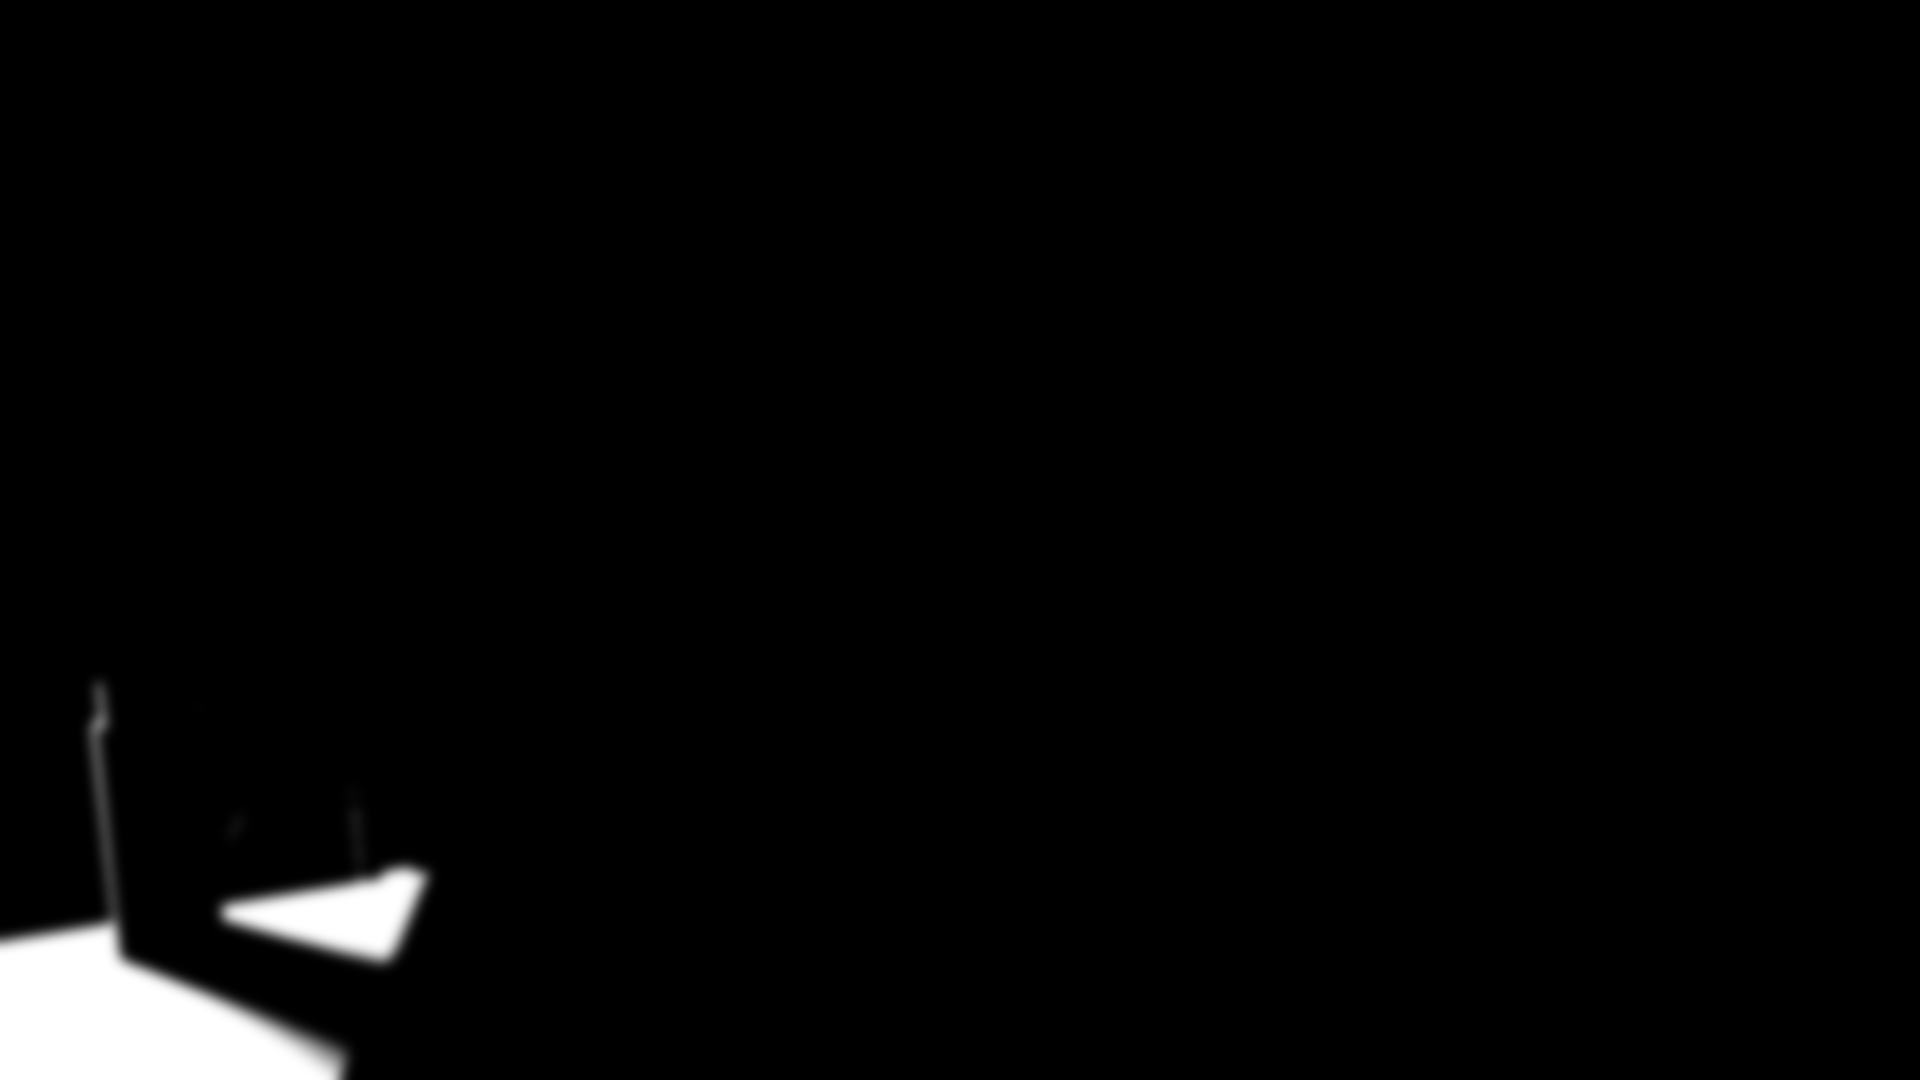
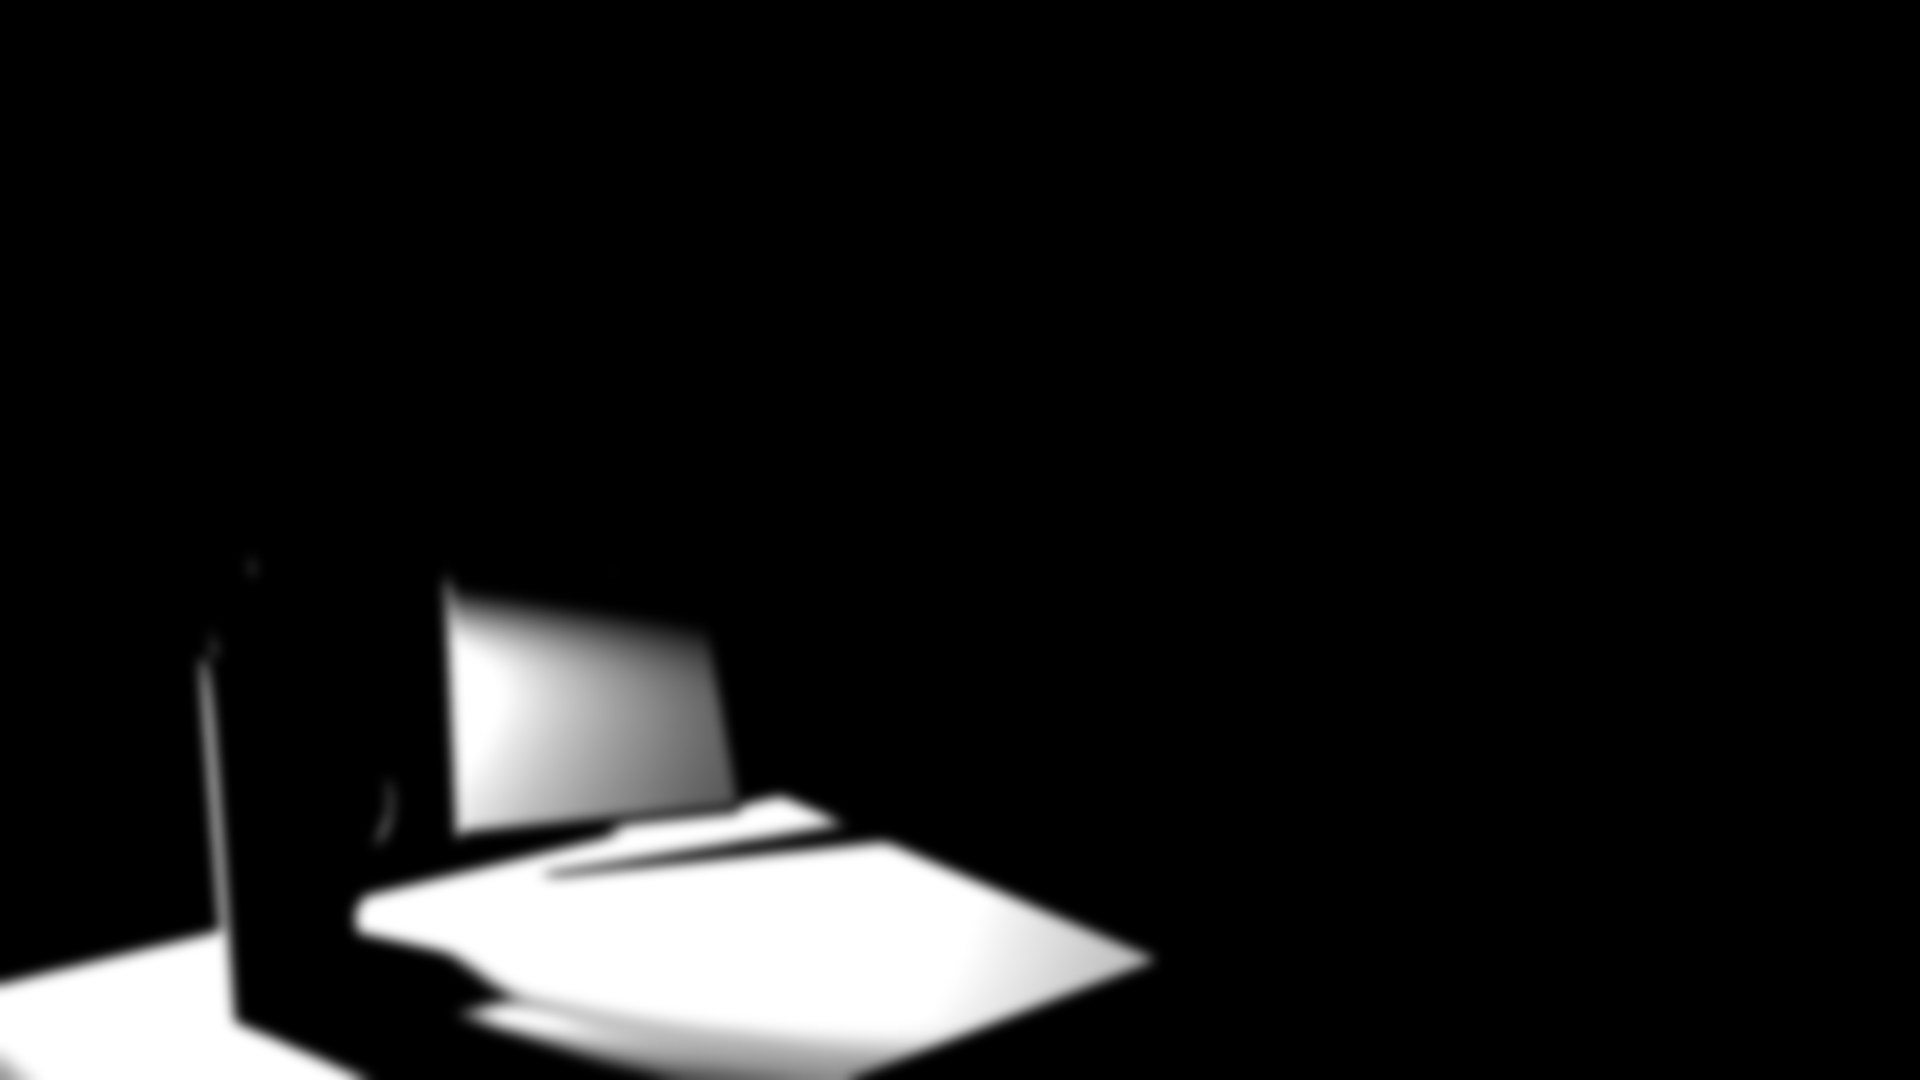
Szenenbild aufnahme/tresen neu komponiert: 30 mm von links vor dem Tresen, Marlene am Tresenende reicht die Mappe, Herr K. auf Sitz 1, Wagen und Tüte umgestellt; Probe --licht, Tresenplatte unterteilt gegen Freestyle-Durchscheinen; neue Vorlage und Masken
Claude-Session: https://claude.ai/code/session_017RUnwLemG1jmmnuJCbaBu4

Changed region(s): [[0.0, 0.5194, 0.5938, 1.0], [0.0, 0.9778, 0.0312, 1.0]]

diff --git a/gen/blender/szenenbild.py b/gen/blender/szenenbild.py
@@ -35,24 +35,34 @@ LINIE = 1.8                # Strichstärke in Pixeln des fertigen Bildes
 # `drehung` ein fester Winkel). Figuren ohne Eintrag stehen wie in figuren.PLATZ.
 EINSTELLUNG = {
     "aufnahme": {
-        # Die Spielerin steht vor dem rechten Ende des Tresens; Marlene ist an dieses Ende gekommen (rechts von Lampe
-        # und PC — von weiter links verdeckten die beiden sie) und reicht die Mappe über die Arbeitsfläche. Das Fenster
-        # liegt rechts hinter ihr, die Sonne tief darin; Wartebank mit Herrn K. und EKG-Wagen rechts. Der Raum ist breit
-        # (Bank 5 m rechts vom Tresen), daher 19 mm — enger ginge nur, wenn Herr K. aus dem Bild fiele.
+        # Ich-Perspektive über den Tresen, nach dem Vorbild art/referenz/chatgpt_aufnahme_marlene.png: Marlene groß links,
+        # reicht die Mappe zur Kamera, hinter ihr das Fenster mit der tiefen Sonne, rechts klein Herr K. auf der Bank, der
+        # EKG-Wagen daneben. Geometrie des Raums: der Tresen (x −4,1…−1,7) liegt ganz links vom Fenster (x −1,25…1,45),
+        # und die Gelenklampe steht am rechten Tresenende (x −2,15). Von einer Kamera rechts der Lampe liegt das Fenster
+        # immer rechts neben Marlene; von einer Kamera links der Lampe hängt der Lampenarm vor ihrem Gesicht. Der
+        # Kompromiss: die Spielerin steht links vor dem Tresen (zwischen PC und Lampe), schaut schräg nach rechts an der
+        # Lampe vorbei; Marlene steht am äußersten rechten Tresenende, die linke Schulter schon über der Wange. So beginnt
+        # das Fenster an ihrer linken Schulter, die Sonnenscheibe steht dicht neben ihr, Herr K. passt auf dem ersten Sitz
+        # (der Bank nächstes Ende zum Fenster) mit 32 mm gerade noch ganz ins Bild. Was Blender für diese Kamera ergibt:
+        # die Sonne (szene.sonne_stellen, nach links-vorn) erreicht hinter dem Tresen nur Marlenes linke Schulter und den
+        # ausgestreckten Arm; Streifen liegen auf dem Wagen, der Fensterbank und dem rechten Ende der Ablage.
         "tresen": dict(
-            kamera=(-1.45, -2.45, 1.62), gier=23.0, neigung=-6.0, brennweite=16.0,
+            kamera=(-2.5, -2.5, 1.58), gier=40.0, neigung=-9.0, brennweite=30.0,
             figuren={
-                "marlene": dict(ort=(-1.95, -0.42, 0.0), haltung="reicht_mappe", blick="kamera", tresen=1.09,
-                                kanne=(-0.16, -0.87, 1.09 + 0.125)),  # Kanne abgestellt auf der Ablage der Sichtblende (1,09 m), vorn links neben der Mappe
+                "marlene": dict(ort=(-1.66, -0.45, 0.0), haltung="reicht_mappe", blick="kamera", tresen=1.09,
+                                kanne_welt=(-2.18, -1.40, 1.09 + 0.125)),  # Kanne (Raumkoordinaten) abgestellt auf der Ablage der Sichtblende (1,09 m), vor der Lampenklemme — links neben der Mappe wie im Vorbild
                 # (nicht auf die Arbeitsfläche dahinter: dort liefe der Blick knapp durch den Spalt zwischen Fase der
                 # Sichtblende und Plattenunterseite, und Freestyle zeichnete die verdeckte Kanne durch die Platte)
-                "herrk": dict(),                                       # wie in PLATZ: dritter Sitz, Tüte daneben
+                "herrk": dict(ort=(1.1, -0.75, 0.0), drehung=-14),   # erster Sitz der Wartereihe (im Spiel: dritter), Tüte daneben
             },
+            # Raumobjekte nur für dieses Szenenbild verschieben (Klickzonen-Gruppen aus szene_aufnahme.HIT, Versatz in
+            # Metern): der EKG-Wagen von vor der Bank unter das rechte Fensterende, die Tüte neben Herrn K.s ersten Sitz.
+            objekte={"wagen": (-0.45, 0.85, 0.0), "tuete": (-1.27, 0.17, 0.0)},
             # Die Sonnenscheibe draußen ist Kulisse (40 m hinter dem Fenster): sie wird so gerückt, dass sie aus dieser
-            # Kamera an dieser Stelle der Fensterebene (x, z in Metern) steht — tief, im rechten Flügel. Das Licht
-            # selbst kommt unverändert aus szene.sonne_stellen().
-            sonne_im_fenster=(0.55, 1.78),
-            lampe_ziel=(-1.9, -1.4, 1.09),        # wohin die Tischlampe leuchtet: Ablage der Sichtblende bei Kanne und Mappe
+            # Kamera an dieser Stelle der Fensterebene (x, z in Metern) steht — tief, dicht neben Marlenes Schulter. Das
+            # Licht selbst kommt unverändert aus szene.sonne_stellen().
+            sonne_im_fenster=(-0.7, 1.52),
+            lampe_ziel=(-1.95, -1.4, 1.09),       # wohin die Tischlampe leuchtet: Ablage der Sichtblende bei Kanne und Mappe
             # Licht im Komposit: Sonne wie komposit.EINSTELLUNG["aufnahme"], dazu die Lampe als warme Insel
             licht=dict(sonne="#FFF0C6", anteil=0.5, schwelle=0.35, weich=0.6, lampe="#FFE3B0", lampe_anteil=0.38,
                        lampe_schwelle=0.18, lampe_weich=6.0, kontakt=True),
@@ -127,13 +137,27 @@ def aufbau(raum, e):
         ort = Vector(p["ort"])
         if p.get("blick") == "kamera":                      # Gesicht (lokal −y) zur Kamera
             d = kam - ort; p["drehung"] = math.degrees(math.atan2(d.x, -d.y)) + p.get("drehung_dazu", 0.0)
+        if name == "marlene" and "kanne_welt" in p:            # Kanne in Raumkoordinaten -> Figurkoordinaten
+            kw = Vector(p["kanne_welt"]) - ort; r = -math.radians(p["drehung"])
+            p["kanne"] = (kw.x * math.cos(r) - kw.y * math.sin(r), kw.x * math.sin(r) + kw.y * math.cos(r), kw.z)
         extra = {k: p[k] for k in ("tresen", "kanne") if k in p and name == "marlene"}
         figs[name] = bau(tuple(ort), drehung=p["drehung"], haltung=p["haltung"], tag=tag, fein=0.0055, **extra)
         print(f"FIGUR {name} ort={tuple(round(v, 2) for v in ort)} drehung={p['drehung']:.1f} haltung={p['haltung']}")
     tuete = [bpy.data.objects[n] for n in ns["HIT"].get("tuete", [])]
     for o in tuete: ef.ZUORDNUNG[o.name] = "tuete"
+    for gruppe, (dx, dy, dz) in e.get("objekte", {}).items():      # Raumobjekte nur für dieses Bild umstellen
+        for n in ns["HIT"].get(gruppe, []):
+            o = bpy.data.objects[n]; o.location = (o.location.x + dx, o.location.y + dy, o.location.z + dz)
+        print(f"OBJEKTE {gruppe} um ({dx:+.2f}, {dy:+.2f}, {dz:+.2f}) verschoben")
     nie = set(wz.PLATZHALTER) - set(ef.ZUORDNUNG)
     aus = set(ns.get("SONNE_AUS", set()))
+    # Tresenplatte fein unterteilen (Subdivision „simple", nur im Szenenbild): aus der Nahkamera ließ Freestyle in einem
+    # schmalen Band Kanten hinter der Platte durch (Hinterkante der Arbeitsfläche, Marlenes Beine, Striche auf der
+    # Ablage); mit der unterteilten Platte (viele kleine statt zwei großer Flächen) hält die Sichtbarkeitsprüfung
+    # dicht. Geometrie und Linienbild der Platte ändern sich nicht (ebene Flächen bleiben eben, keine Falten).
+    platte = bpy.data.objects.get("desk_top")
+    if platte is not None:
+        md = platte.modifiers.new("unterteilen", 'SUBSURF'); md.subdivision_type = 'SIMPLE'; md.levels = md.render_levels = 4
     # Lampe: der Spot sitzt im Lampenkopf und leuchtet auf die Arbeitsfläche vor Marlene (Lampeninsel um Kanne und Mappe).
     # Die Szene stellt ihn für ihre eigene Vorschau anders; hier zählt, was man im Bild sieht.
     kopf = bpy.data.objects.get("lamp_head")
@@ -284,13 +308,17 @@ def rendern(raum, einstellung, e, out, probe=False):
     sichtbar_linie = lambda o: o.name not in nie and not any(m and m.name in ohne_linie for m in o.data.materials)
     sichtbar_sonne = lambda o: o.name not in nie and o.name not in aus
     fein = bpy.data.collections.get("figuren_fein")
-    if probe:   # klein, nur Fläche und Linie: Kamera und Haltung prüfen
+    if probe:   # klein, nur Fläche und Linie: Kamera und Haltung prüfen; mit --licht auch die Sonne (gelb getönt)
         global B, H, UEBER, LINIE; B, H, UEBER, LINIE = B // 4, H // 4, 1, 1.0
         ef.render_grund(B, H)
         ef.material_flach(); stufen(A["ohne_schattierung"]); ef.pass_flach(out + "probe_flat.png", sichtbar); stufen_weg()
         pass_linien(out + "probe_lines.png", sichtbar_linie, fein)
         flach = lade(out + "probe_flat.png", True); linien = lade(out + "probe_lines.png")
         col = hexc(A["himmel"]) * (1 - flach[..., 3:4]) + flach[..., :3] * flach[..., 3:4]
+        if "--licht" in sys.argv:
+            ef.pass_sonne(out + "probe_sun.png", sichtbar_sonne, stellen=A["sonne_stellen"])
+            L = e["licht"]; s = (luma(lade(out + "probe_sun.png")) > L["schwelle"]).astype(np.float32)[..., None]
+            col = col * (1 - s * 0.7) + np.array([1.0, 0.85, 0.1], np.float32) * s * 0.7
         t = np.clip((1 - luma(linien)) * 1.3, 0, 1)[..., None]
         bild(col * (1 - t) + TINTE * t).save(out + "probe.png"); print("saved", out + "probe.png"); return
     nur = sys.argv[sys.argv.index("--durchgang") + 1].split(",") if "--durchgang" in sys.argv else None   # einzelne Durchgänge

diff --git a/gen/blender/figuren.py b/gen/blender/figuren.py
@@ -308,9 +308,9 @@ def marlene(ort=(0, 0, 0), drehung=0.0, haltung="tresen", tag=None, hit="marlene
         ER, HR = Vector((-0.31, -0.13, tresen - 0.04)), Vector((-0.2, -0.46, tresen + 0.02))
         EL, HL = Vector((0.3, -0.18, tresen - 0.08)), Vector((0.31, -0.44, tresen + 0.07))
     elif haltung == "reicht_mappe":
-        # linker Arm (+x, von vorn gesehen rechts) fast gestreckt nach vorn, Hand in Brusthöhe mit der Mappe;
-        # rechter Arm hängt locker an der Seite, Hand an der Hüfte
-        EL, HL = Vector((0.27, -0.30, 1.14)), Vector((0.14, -0.58, 1.22))
+        # linker Arm (+x, von vorn gesehen rechts) gestreckt nach vorn zur Kamera, Hand in Schulterhöhe 0,6 m vor dem
+        # Körper (Schulter–Hand 0,61 m, Arm 0,64 m), vor der Körpermitte; rechter Arm hängt locker, Hand an der Hüfte
+        EL, HL = Vector((0.22, -0.30, 1.20)), Vector((0.12, -0.60, 1.32))
         ER, HR = Vector((-0.30, -0.06, 0.98)), Vector((-0.27, -0.16, 0.84))
     else:
         ER, HR = Vector((-0.3, -0.03, 1.02)), Vector((-0.2, -0.1, 0.9))      # Hand in der Hüfte
@@ -322,9 +322,11 @@ def marlene(ort=(0, 0, 0), drehung=0.0, haltung="tresen", tag=None, hit="marlene
     F.hand(HR, skala=(1.1, 1.25, 0.55) if haltung == "tresen" else (1, 1.1, 0.8))
     F.hand(HL, skala=(1.05, 1.05, 0.9) if haltung != "reicht_mappe" else (1.0, 1.15, 0.8))
     if haltung == "reicht_mappe":
-        # Mappe (Papier, Klammer dunkel): an der Oberkante gehalten, hängt um 55° nach vorn-unten zur Kamera —
-        # ihre Fläche zeigt zur Kamera, die etwas höher steht als Marlenes Augen
-        a = math.radians(55); runter = Vector((0.0, -math.cos(a), -math.sin(a)))
+        # Mappe (Papier, Klammer dunkel): an der hinteren Kante gehalten, liegt um 40° nach vorn-unten zur Kamera
+        # geneigt — ihre Fläche zeigt zur Kamera, die etwas höher steht als Marlenes Augen; die vordere Kante kommt
+        # knapp über der Ablage des Tresens an (1,11 m), als würde die Mappe dort abgelegt — so bleibt die ganze Mappe
+        # samt Unterkante über der Platte sichtbar
+        a = math.radians(40); runter = Vector((0.0, -math.cos(a), -math.sin(a)))
         F.quader((0.24, 0.32, 0.012), HL + runter * 0.15 + Vector((-0.01, -0.02, 0.0)), "fig_schild", rot=(a, 0, 0), fase=0.003, name="mappe")
         F.quader((0.05, 0.035, 0.018), HL + runter * 0.02 + Vector((0.05, -0.02, 0.0)), "fig_dunkel", rot=(a, 0, 0), fase=0.003, name="mappenclip")
     # Thermoskanne (Rost) — der eine Akzent; Deckel dunkel

diff --git a/gen/blender/README.md b/gen/blender/README.md
@@ -178,8 +178,8 @@ Arbeit: **Blender rechnet das Licht, der Bildgenerator malt nur.**
 ```bash
 BLENDER_THREADS=2 python3 gen/blender/szenenbild.py aufnahme tresen            # ≈ 2,5 min -> art/szenenbilder/aufnahme_tresen/
 python3 gen/blender/szenenbild.py aufnahme tresen --komposit                   # nur neu zusammensetzen
-BLENDER_THREADS=2 python3 gen/blender/szenenbild.py aufnahme tresen --probe --kamera -1.45,-2.45,1.62 --gier 23 --brennweite 16
-                                                                               # Kamera ausprobieren (klein, 10 s)
+BLENDER_THREADS=2 python3 gen/blender/szenenbild.py aufnahme tresen --probe --kamera -2.5,-2.5,1.58 --gier 40 --brennweite 30
+                                                                               # Kamera ausprobieren (klein, 10 s); --licht tönt dazu die Sonne gelb (+5 s)
 python3 gen/blender/malen.py kontext --image art/szenenbilder/aufnahme_tresen/vorlage.png \
         --style gen/blender/stil/szenenbild.txt --aspect 16:9 --seed 7 --out bau/blender/szenenbilder/aufnahme_tresen/kontext_s7.png
 python3 gen/blender/malen.py openai --image art/szenenbilder/aufnahme_tresen/vorlage.png \
@@ -188,19 +188,27 @@ python3 gen/blender/malen.py openai --image art/szenenbilder/aufnahme_tresen/vor
 python3 gen/blender/licht_pruefen.py <ergebnis.png> art/szenenbilder/aufnahme_tresen/sonne.png --lampe art/szenenbilder/aufnahme_tresen/lampe.png
 ```
 
-Einstellung `aufnahme/tresen`: die Spielerin steht vor dem rechten Ende des Tresens (Augenhöhe 1,62 m), Marlene ist an dieses
-Ende gekommen (Haltung `reicht_mappe` in `figuren.py`: linker Arm mit der Mappe nach vorn, Kanne abgestellt auf der Ablage) und
-schaut zur Kamera; das Fenster liegt rechts hinter ihr, die Sonnenscheibe (Kulisse 40 m draußen) wird je Einstellung so
-gerückt, dass sie tief im rechten Flügel steht (`sonne_im_fenster`), das Licht selbst bleibt `sonne_stellen()`. Herr K. sitzt
-wie im Raum auf dem dritten Sitz, der EKG-Wagen davor. Der Raum ist breit (Bank 5 m rechts vom Tresen), daher 16 mm — mit
-einer engeren Brennweite fiele Herr K. aus dem Bild; Marlene ist deshalb kleiner als im Referenzbild. Was Blender für diese
-Kamera ergibt: die Sonne fällt rechts an Marlene vorbei (das Fenster liegt rechts vom Tresen); die Jalousiestreifen auf dem
-Boden liegen 1,75–3,5 m vor der Rückwand, also unter den Füßen der Spielerin und außerhalb des Bildes; im Bild trifft die Sonne
-die Oberseite des EKG-Wagens (Streifen), Fensterbank und Laibung und die rechte Ecke der Tresenablage. Marlene steht in
-Raumlicht und Lampeninsel, Herr K. im Schatten. Ein Gegenlicht-Saum entsteht nur dort, wo der Sonnen-Durchgang eine Figur
-wirklich trifft — die Stilphrase verlangt Streifen und Säume nur, wo die Vorlage sie zeigt. Die Kanne steht auf der Ablage der
-Sichtblende: auf der Arbeitsfläche dahinter liefe der Blick knapp durch den Spalt zwischen Fase der Sichtblende und
-Plattenunterseite, und Freestyle zeichnete die verdeckte Kanne durch die Platte.
+Einstellung `aufnahme/tresen` (zweite Fassung, nach dem Vorbild `art/referenz/chatgpt_aufnahme_marlene.png`): Ich-Perspektive über
+den Tresen mit 30 mm, Marlene groß links, hinter ihr das Fenster mit der tiefen Sonne, rechts klein Herr K. auf der Bank, der
+EKG-Wagen daneben. Die Raumgeometrie setzt Grenzen: der Tresen (x −4,1…−1,7) liegt ganz links vom Fenster (x −1,25…1,45), und die
+Gelenklampe steht am rechten Tresenende. Von einer Kamera rechts der Lampe liegt das Fenster immer rechts neben Marlene; von einer
+Kamera links der Lampe hängt der Lampenarm vor ihrem Gesicht — das Fenster lässt sich also nicht vollständig hinter sie bringen.
+Kompromiss: die Spielerin steht links vor dem Tresen (−2,5/−2,5, Augenhöhe 1,58 m), schaut mit 40° Gier schräg nach rechts an der
+Lampe vorbei (Lampenkopf am linken Bildrand); Marlene steht am äußersten rechten Tresenende (−1,66/−0,45, linke Schulter über der
+Wange), so beginnt das Fenster an ihrer linken Schulter, die Sonnenscheibe (`sonne_im_fenster` −0,7/1,52) steht dicht neben ihr.
+Herr K. sitzt für dieses Bild auf dem ersten Sitz (1,1/−0,75, dem Fenster nächstes Bankende), nur so passt er mit 30 mm ganz ins
+Bild; Tüte und EKG-Wagen werden über `objekte` (Klickzonen-Gruppen aus `szene_aufnahme.HIT`, Versatz in Metern) mitverschoben —
+der Wagen unter das rechte Fensterende, die Tüte neben seinen Sitz. Haltung `reicht_mappe`: der linke Arm gestreckt zur Kamera,
+Hand 0,6 m vor dem Körper in Schulterhöhe, die Mappe an der hinteren Kante gehalten und um 40° zur Kamera geneigt, ihre Vorderkante
+knapp über der Ablage; die Kanne steht (`kanne_welt`, Raumkoordinaten) auf der Ablage vor der Lampenklemme. Was Blender für diese
+Kamera ergibt: die Sonne (`sonne_stellen`, nach links-vorn) erreicht hinter dem Tresen weder Marlenes Haar noch ihre Schultern (die
+beleuchtete Zone beginnt bei x ≈ −1,45, ihre linke Schulter endet bei −1,42); Streifen liegen auf dem rechten Ende der Ablage, auf
+Fensterbank, Wagen und auf Herrn K. (Mütze, Schulter); die Streifen auf dem Boden liegen 2,5–3,3 m vor der Rückwand, also hinter
+der Kamera. Ein Gegenlicht-Saum an Marlene steht daher nicht in `sonne.png`; die Stilphrase verlangt Säume nur, wo die Vorlage sie
+zeigt. Freestyle ließ aus dieser Nahkamera in einem schmalen Band Kanten hinter der Tresenplatte durch (Hinterkante der
+Arbeitsfläche, Marlenes Beine — Striche auf der Ablage; in der ersten Fassung dasselbe mit der Kanne auf der Arbeitsfläche):
+Fase, Dicke und Lage der Platte änderten daran nichts, erst die fein unterteilte Platte (Subdivision „simple", Stufe 4, in
+`aufbau`) hält die Sichtbarkeitsprüfung dicht. Die Kanne steht trotzdem auf der Ablage der Sichtblende, wie im Vorbild.
 
 Nicht im Bild: Klickzonen, Uhrzeiger (bleiben SVG), Kurven auf Schirmen, Text. Die Szenenbilder werden später eingebunden; die
 Spiellogik kennt sie noch nicht.
@@ -223,3 +231,24 @@ den GPT-Lauf mit Schlüssel heißt das: Vorlage + Porträts + Stilreferenz in ei
 den Kontrast der Vorlage (0,57) annähernd hält; wenn nicht, zweistufig — Szene einbildig fürs Licht, Figuren wie im Spiel
 getrennt gezeichnet und über `maske.png` eingesetzt. Bilder und Prüfungen der Probe liegen nicht im Repository
 (`bau/blender/szenenbilder/aufnahme_tresen/kontext_*.png` + `.json`).
+
+### GPT Image zur zweiten Einstellung am 13.10.2026 (drei Aufrufe, Vorlage `aufnahme_tresen`, 30 mm)
+
+Aufruf wie oben (`malen.py openai`, Vorlage + Porträts Marlene, Herr K. + Referenzbild), dazu `--prompt` mit einer kurzen
+Szenenbeschreibung (Marlene am Tresenende reicht die Mappe, Kanne vor der Lampe, Fenster hinter ihrer linken Schulter, Herr K.
+auf der Bank mit Tüte, Wagen unter dem Fenster; Schild leer; dünner warmer Saum an Haar und Schulter). Die Lichtprüfung ist für
+diese Einstellung streng: die Sonnenmaske ist dünn (Fensterbank, Wagen, drei Streifen am rechten Ende der Ablage, Herrn K.s
+Mütze und Schulter), und schon die Vorlage selbst kommt nur auf 1/4 (Kontrast 0,13, Versatz 7 %: die cremefarbene Ablage zeigt
+die Tönung kaum). Figuren treffen in allen drei Läufen die Porträts (Dutt mit Lesebrille, Kanne rost, Mütze, Schnurrbart,
+Strickjacke, Hausschuhe, Tüte mit Schachteln, Uhr ohne Zeiger, Schirme dunkel, Hände mit Fingern, keine Schrift außer wo
+vermerkt); der Kuli steckt wie im Porträt in der Brusttasche, nicht hinterm Ohr.
+
+| Aufruf | Prompt-Zusatz | Licht (`licht_pruefen.py`) | Befund |
+|---|---|---|---|
+| 1 (19:03) | Szenenbeschreibung | FALSCH 2/4: Kontrast −0,34, Versatz 5,9 %, Richtung 17°, Fremdlicht 5 ‰ | Komposition wie die Vorlage, Lampeninsel da, aber **keine** Sonnenstreifen (Ablage, Fensterbank, Wagen, Herr K. alle flach); Schild leer |
+| 2 (19:05) | + Streifen einzeln benannt (Ablage, Fensterbank, Wagen, Mütze/Schulter), Gesicht im Halbschatten, Saum | TEILWEISE 3/4: Kontrast 0,60, Richtung 6°, Fremdlicht 3,9 ‰; Versatz 7,2 % | Streifen auf Ablage (aber unter der Mappe statt am rechten Ende) und Fensterbank, Wagen und Herr K. weiter flach, zarter Saum am Dutt; **Schild mit Schriftlinien** (§6) |
+| 3 (19:06) | + Schild „absolut leer", Streifen rechts neben der Mappe | FALSCH 2/4: Kontrast 0,10, Richtung 10°, Fremdlicht 5,1 ‰; Versatz 7,6 % | Schild leer, Streifen am rechten Ablagenende und auf der Fensterbank, aber blass; Wagen und Herr K. flach; Saum zart — **bestes Ergebnis** (kein Ausschlusskriterium) |
+
+Offen: GPT malt die Streifen blass und nie auf Wagen oder Herrn K.; der Versatz bleibt bei 7 %, weil die gemalten Streifen auf
+der Ablage weiter links liegen als Blenders. Marlenes Gesicht bleibt frontal hell statt im Halbschatten, der Gegenlicht-Saum
+ist nur angedeutet (Blenders Sonne erreicht sie nicht, siehe oben).
